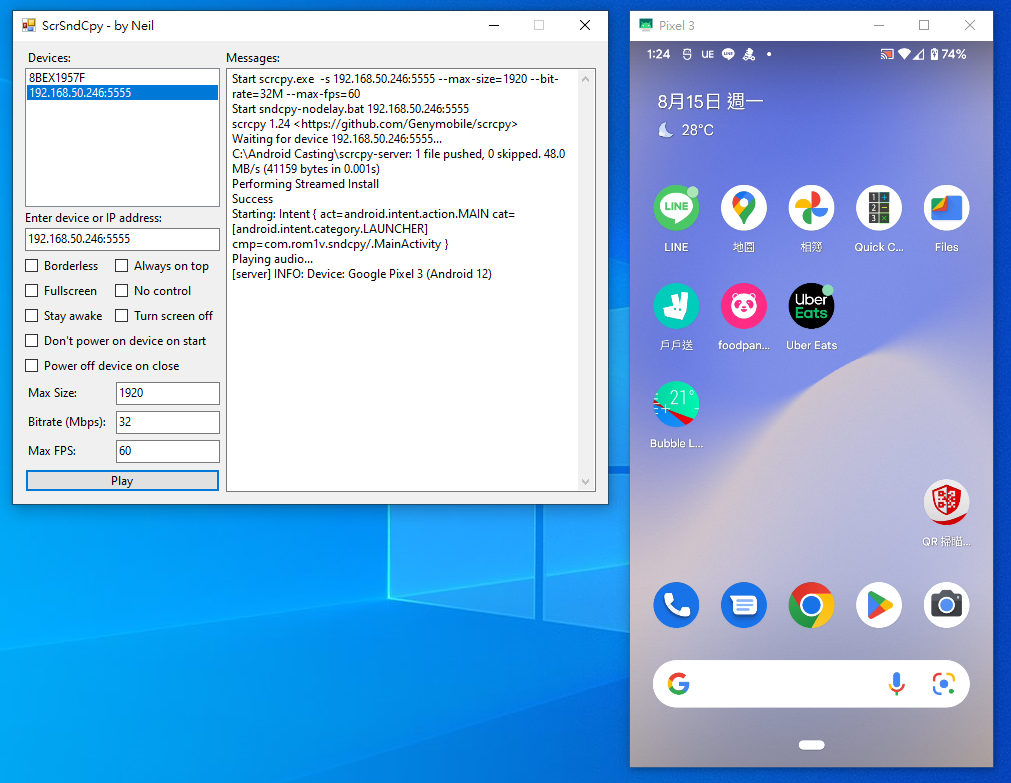
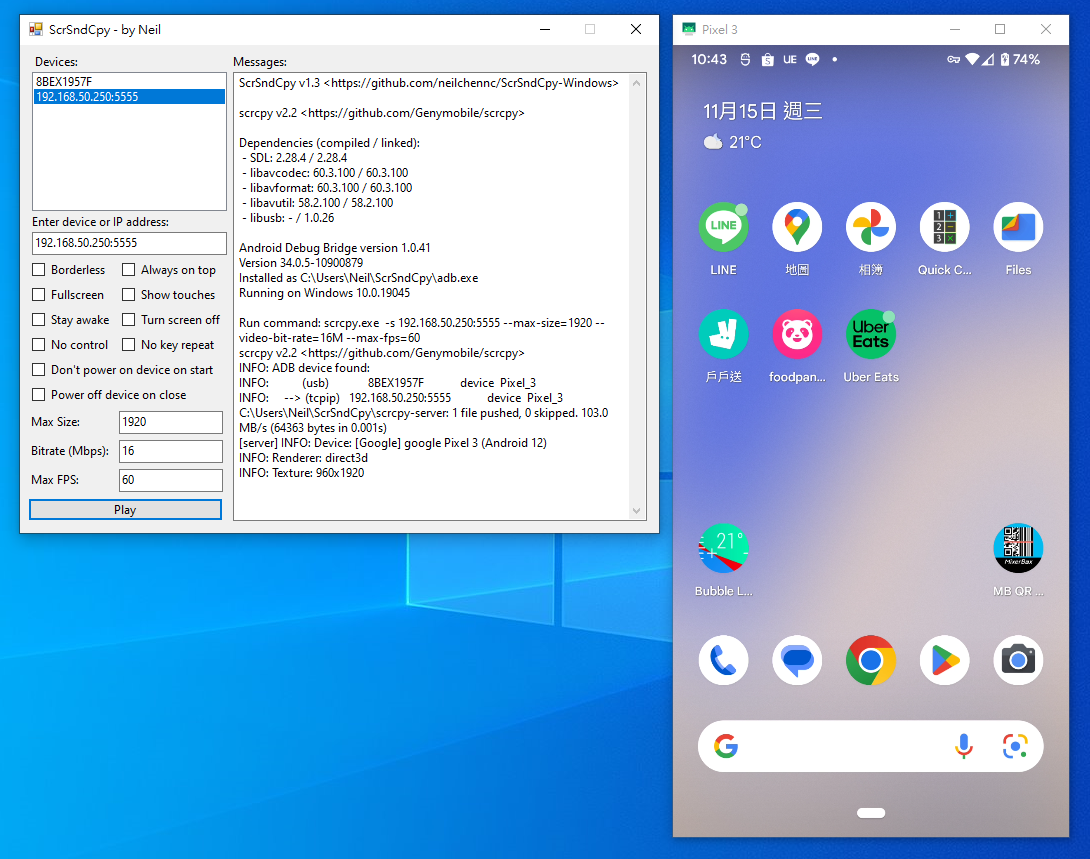
Update README.md and README.zh-Hant.md

Changed region(s): [[0.0, 0.0, 1.0, 0.9808], [0.8586, 0.0613, 0.9505, 0.092]]

diff --git a/README.md b/README.md
@@ -4,33 +4,29 @@
 
 [繁體中文](README.zh-Hant.md)
 
-A Windows GUI application executes both [scrcpy](https://github.com/Genymobile/scrcpy) and [sndcpy](https://github.com/rom1v/sndcpy) simultaneously, used to display screen, sound and control Android phones or tablets.
+A Windows GUI application to dispaly screen, audio and control your Android devices on PC by executing [scrcpy](https://github.com/Genymobile/scrcpy) (passing commands and parameters to [scrcpy](https://github.com/Genymobile/scrcpy)).
 
 ![Screenshot](screenshots/scrsndcpy-screen.png "Screenshot")
 
 *Looking for Linux version? [Click here](https://github.com/neilchennc/ScrSndCpy-Linux)*
 
-## About scrcpy and sndcpy
+## About scrcpy
 
 [scrcpy](https://github.com/Genymobile/scrcpy) (Screen Copy) is an application provides display and control of Android devices connected via USB or over TCP/IP (requires at least Android 5.0) which developed by Genymobile.
 
-[sndcpy](https://github.com/rom1v/sndcpy) (Sound Copy) is an application forwards audio from an Android device to the computer (requires at least Android 10, and [VLC](https://www.videolan.org/) must be installed on the PC) which developed by rom1v.
-
-Both of them do NOT require any root access.
+It does NOT require any root access.
 
 ## Requirements
 
 - Windows 7/8/10/11
 
-- Android 5.0+ (or Android 10+ if you want audio output)
-
-- [VLC](https://www.videolan.org/) installed (install on PC, for audio output)
+- Android 5.0+ (Audio forwarding must Android 11+)
 
 ## Download
 
-- [ScrSndCpy-v1.2.zip](https://github.com/neilchennc/ScrSndCpy-Windows/releases/download/v1.2/ScrSndCpy-v1.2.zip)
+- [ScrSndCpy-v1.3.zip](https://github.com/neilchennc/ScrSndCpy-Windows/releases/download/v1.3/ScrSndCpy-v1.3.zip)
 
-  SHA-256: ef0180bf8ad65f1d47eebae6407ccd4c48bc8772ae2df61bc499c0475e119727
+  SHA-256: 4719ca4c0886c7aec510666d41733bf7c07054f89160bdd448e70f60c1718d9a
 
 ## How to use
 
@@ -80,10 +76,24 @@ You have to enable tcp port on your device with following steps
 
 - Click **Play** button again
 
-## Shortcuts (references from scrcpy 1.24)
+## Shortcuts (references from [scrcpy 2.2 shortcut](https://github.com/Genymobile/scrcpy/blob/master/doc/shortcuts.md))
+
+Actions can be performed on the scrcpy window using keyboard and mouse
+shortcuts.
 
 In the following list, <kbd>MOD</kbd> is the shortcut modifier. By default, it's
 (left) <kbd>Alt</kbd> or (left) <kbd>Super</kbd>.
+
+It can be changed using `--shortcut-mod`. Possible keys are `lctrl`, `rctrl`,
+`lalt`, `ralt`, `lsuper` and `rsuper`. For example:
+
+```bash
+# use RCtrl for shortcuts
+scrcpy --shortcut-mod=rctrl
+
+# use either LCtrl+LAlt or LSuper for shortcuts
+scrcpy --shortcut-mod=lctrl+lalt,lsuper
+```
 
 _<kbd>[Super]</kbd> is typically the <kbd>Windows</kbd> or <kbd>Cmd</kbd> key._
 
@@ -97,7 +107,7 @@ _<kbd>[Super]</kbd> is typically the <kbd>Windows</kbd> or <kbd>Cmd</kbd> key._
  | Resize window to 1:1 (pixel-perfect)        | <kbd>MOD</kbd>+<kbd>g</kbd>
  | Resize window to remove black borders       | <kbd>MOD</kbd>+<kbd>w</kbd> \| _Double-left-click¹_
  | Click on `HOME`                             | <kbd>MOD</kbd>+<kbd>h</kbd> \| _Middle-click_
- | Click on `BACK`                             | <kbd>MOD</kbd>+<kbd>b</kbd> \| _Right-click²_
+ | Click on `BACK`                             | <kbd>MOD</kbd>+<kbd>b</kbd> \| <kbd>MOD</kbd>+<kbd>Backspace</kbd> \| _Right-click²_
  | Click on `APP_SWITCH`                       | <kbd>MOD</kbd>+<kbd>s</kbd> \| _4th-click³_
  | Click on `MENU` (unlock screen)⁴            | <kbd>MOD</kbd>+<kbd>m</kbd>
  | Click on `VOLUME_UP`                        | <kbd>MOD</kbd>+<kbd>↑</kbd> _(up)_
@@ -117,7 +127,7 @@ _<kbd>[Super]</kbd> is typically the <kbd>Windows</kbd> or <kbd>Cmd</kbd> key._
  | Enable/disable FPS counter (on stdout)      | <kbd>MOD</kbd>+<kbd>i</kbd>
  | Pinch-to-zoom                               | <kbd>Ctrl</kbd>+_click-and-move_
  | Drag & drop APK file                        | Install APK from computer
- | Drag & drop non-APK file                    | Push file to device
+ | Drag & drop non-APK file                    | [Push file to device](https://github.com/Genymobile/scrcpy/blob/master/doc/control.md#push-file-to-device)
 
 _¹Double-click on black borders to remove them._  
 _²Right-click turns the screen on if it was off, presses BACK otherwise._  
@@ -125,12 +135,24 @@ _³4th and 5th mouse buttons, if your mouse has them._
 _⁴For react-native apps in development, `MENU` triggers development menu._  
 _⁵Only on Android >= 7._
 
-You can check out [scrcpy](https://github.com/Genymobile/scrcpy) and [sndcpy](https://github.com/rom1v/sndcpy) for more introductions, functions and controls.
+Shortcuts with repeated keys are executed by releasing and pressing the key a
+second time. For example, to execute "Expand settings panel":
+
+ 1. Press and keep pressing <kbd>MOD</kbd>.
+ 2. Then double-press <kbd>n</kbd>.
+ 3. Finally, release <kbd>MOD</kbd>.
+
+All <kbd>Ctrl</kbd>+_key_ shortcuts are forwarded to the device, so they are
+handled by the active application.
+
+For more informations, see [scrcpy](https://github.com/Genymobile/scrcpy).
 
 ## Development environment
 
 - OS: Windows 10
 
 - Language: C#
+
+- Framework: .NET Framework 4.7.2
 
 - IDE: Visual Studio

diff --git a/README.zh-Hant.md b/README.zh-Hant.md
@@ -4,35 +4,31 @@
 
 [English](README.md)
 
-Windows圖形化介面的程式，可以同時執行[scrcpy](https://github.com/Genymobile/scrcpy)和[sndcpy](https://github.com/rom1v/sndcpy)，用來顯示畫面、聲音與控制Android手機或平板，
+Windows圖形化介面的程式，透過執行[scrcpy](https://github.com/Genymobile/scrcpy)在你的電腦上顯示畫面跟聲音輸出，並可使用鍵盤滑鼠來控制Android裝置，
 
 ![Screenshot](screenshots/scrsndcpy-screen.png "Screenshot")
 
 *想找Linux版本？[點我](https://github.com/neilchennc/ScrSndCpy-Linux)*
 
-## 關於scrcpy與sndcpy
+## 關於scrcpy
 
 [scrcpy](https://github.com/Genymobile/scrcpy) (Screen Copy)是由Genymobile開發的程式，可以透過USB或是網路（TCP/IP）來顯示或控制Android裝置（至少要Android 5.0以上）。
 
-[sndcpy](https://github.com/rom1v/sndcpy) (Sound Copy)是由rom1v開發的程式，可以透過USB或是網路（TCP/IP）將Android裝置的聲音傳到電腦播放（至少要Android 10以上，電腦需安裝[VLC](https://www.videolan.org/)才能播放聲音）。
-
-兩個皆不需要root權限。
+此功能不需要root權限。
 
 ## 需求
 
 - Windows 7/8/10/11
 
-- Android 5.0以上（如果想要聲音輸出，則要Android 10以上）
-
-- 安裝[VLC](https://www.videolan.org/)（安裝在電腦，用來播放聲音）
+- Android 5.0以上（如果想要聲音輸出，則必須在Android 11以上）
 
 ## 下載
 
-- [ScrSndCpy-v1.2.zip](https://github.com/neilchennc/ScrSndCpy-Windows/releases/download/v1.2/ScrSndCpy-v1.2.zip)
+- [ScrSndCpy-v1.3.zip](https://github.com/neilchennc/ScrSndCpy-Windows/releases/download/v1.3/ScrSndCpy-v1.3.zip)
 
-  SHA-256: ef0180bf8ad65f1d47eebae6407ccd4c48bc8772ae2df61bc499c0475e119727
+  SHA-256: 4719ca4c0886c7aec510666d41733bf7c07054f89160bdd448e70f60c1718d9a
 
-## 如何使用
+## 使用說明
 
 ### 前置準備
 
@@ -80,10 +76,24 @@ Windows圖形化介面的程式，可以同時執行[scrcpy](https://github.com/
 
 - 再次點擊**Play**按鈕
 
-## 快捷鍵（參考自scrcpy 1.24）
+## 快捷鍵（參考自scrcpy 2.2）
+
+Actions can be performed on the scrcpy window using keyboard and mouse
+shortcuts.
 
 In the following list, <kbd>MOD</kbd> is the shortcut modifier. By default, it's
 (left) <kbd>Alt</kbd> or (left) <kbd>Super</kbd>.
+
+It can be changed using `--shortcut-mod`. Possible keys are `lctrl`, `rctrl`,
+`lalt`, `ralt`, `lsuper` and `rsuper`. For example:
+
+```bash
+# use RCtrl for shortcuts
+scrcpy --shortcut-mod=rctrl
+
+# use either LCtrl+LAlt or LSuper for shortcuts
+scrcpy --shortcut-mod=lctrl+lalt,lsuper
+```
 
 _<kbd>[Super]</kbd> is typically the <kbd>Windows</kbd> or <kbd>Cmd</kbd> key._
 
@@ -97,7 +107,7 @@ _<kbd>[Super]</kbd> is typically the <kbd>Windows</kbd> or <kbd>Cmd</kbd> key._
  | Resize window to 1:1 (pixel-perfect)        | <kbd>MOD</kbd>+<kbd>g</kbd>
  | Resize window to remove black borders       | <kbd>MOD</kbd>+<kbd>w</kbd> \| _Double-left-click¹_
  | Click on `HOME`                             | <kbd>MOD</kbd>+<kbd>h</kbd> \| _Middle-click_
- | Click on `BACK`                             | <kbd>MOD</kbd>+<kbd>b</kbd> \| _Right-click²_
+ | Click on `BACK`                             | <kbd>MOD</kbd>+<kbd>b</kbd> \| <kbd>MOD</kbd>+<kbd>Backspace</kbd> \| _Right-click²_
  | Click on `APP_SWITCH`                       | <kbd>MOD</kbd>+<kbd>s</kbd> \| _4th-click³_
  | Click on `MENU` (unlock screen)⁴            | <kbd>MOD</kbd>+<kbd>m</kbd>
  | Click on `VOLUME_UP`                        | <kbd>MOD</kbd>+<kbd>↑</kbd> _(up)_
@@ -117,7 +127,7 @@ _<kbd>[Super]</kbd> is typically the <kbd>Windows</kbd> or <kbd>Cmd</kbd> key._
  | Enable/disable FPS counter (on stdout)      | <kbd>MOD</kbd>+<kbd>i</kbd>
  | Pinch-to-zoom                               | <kbd>Ctrl</kbd>+_click-and-move_
  | Drag & drop APK file                        | Install APK from computer
- | Drag & drop non-APK file                    | Push file to device
+ | Drag & drop non-APK file                    | [Push file to device](https://github.com/Genymobile/scrcpy/blob/master/doc/control.md#push-file-to-device)
 
 _¹Double-click on black borders to remove them._  
 _²Right-click turns the screen on if it was off, presses BACK otherwise._  
@@ -125,4 +135,24 @@ _³4th and 5th mouse buttons, if your mouse has them._
 _⁴For react-native apps in development, `MENU` triggers development menu._  
 _⁵Only on Android >= 7._
 
-你可以到[scrcpy](https://github.com/Genymobile/scrcpy)或[sndcpy](https://github.com/rom1v/sndcpy)查看更多它們的詳細介紹、操作、功能等
+Shortcuts with repeated keys are executed by releasing and pressing the key a
+second time. For example, to execute "Expand settings panel":
+
+ 1. Press and keep pressing <kbd>MOD</kbd>.
+ 2. Then double-press <kbd>n</kbd>.
+ 3. Finally, release <kbd>MOD</kbd>.
+
+All <kbd>Ctrl</kbd>+_key_ shortcuts are forwarded to the device, so they are
+handled by the active application.
+
+可以到[scrcpy](https://github.com/Genymobile/scrcpy)查看更多它們的詳細介紹、操作、功能等
+
+## 開發環境
+
+- OS: Windows 10
+
+- Language: C#
+
+- Framework: .NET Framework 4.7.2
+
+- IDE: Visual Studio
